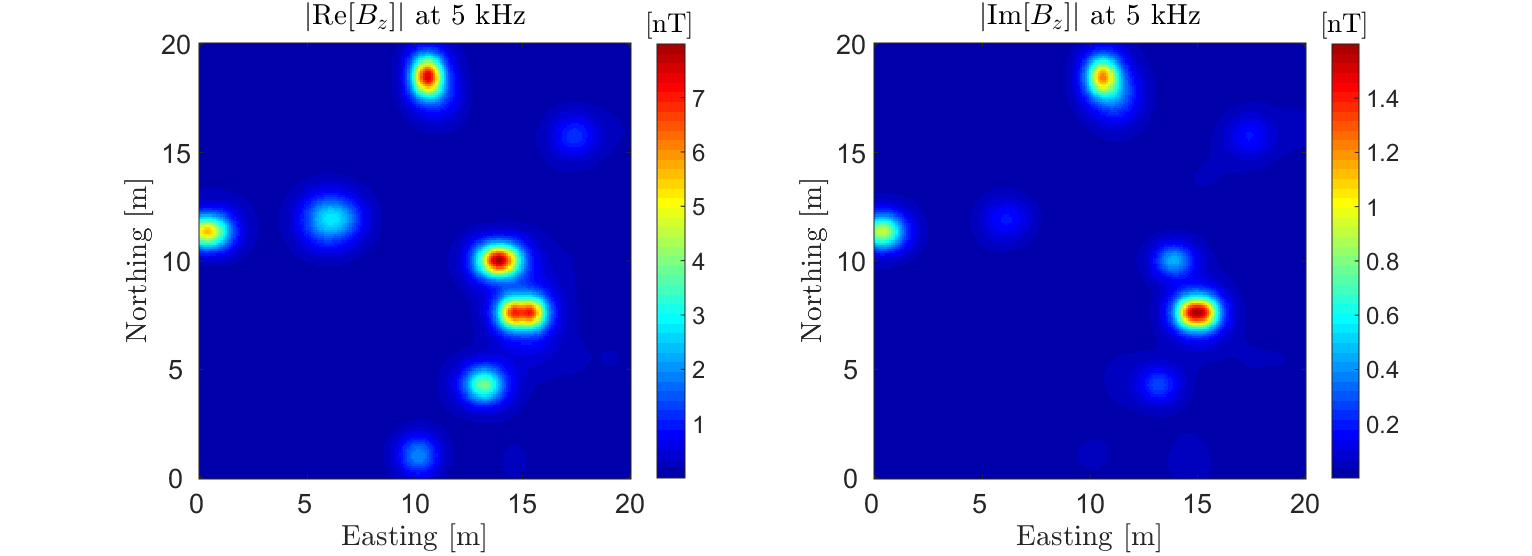
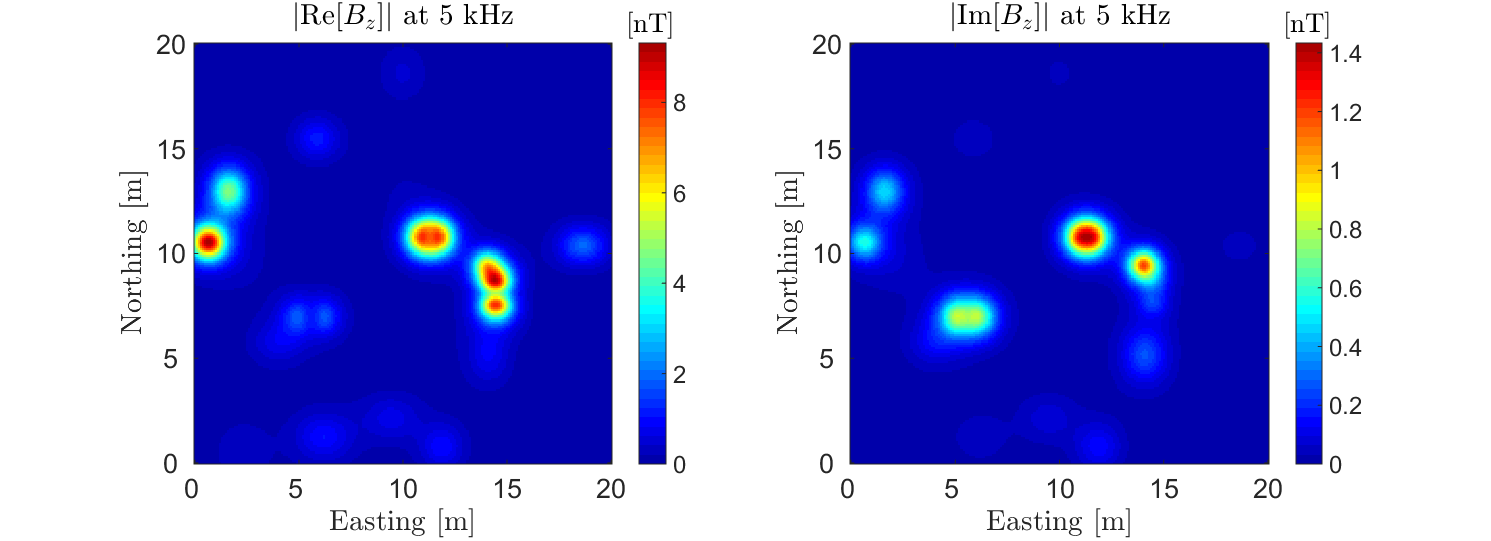
Interpretation edits

diff --git a/content/geophysical_surveys/uxo/interpretation.rst b/content/geophysical_surveys/uxo/interpretation.rst
@@ -7,11 +7,57 @@ Interpretation
     :file: ../../../underconstruction.html
 
 
+In many cases, the number of clutter items far exceeds the number of ordnance items within the survey area. As a result, data processing and interpretation techniques are used to differentiate ordnance items from clutter and produce a prioritized dig list of targets for excavation. A workflow showing the processing steps for UXO classification is shown in :numref:`fig_workflow_uxo`.
+
+Workflow for UXO Classification
+-------------------------------
+
+
+.. figure:: images/workflow.png
+	:align: center
+	:figwidth: 100%
+	:name: fig_workflow_uxo
+
+	Workflow for UXO classification.
+
+**Digital Geophysical Map (DGM):** These are visually represented data collected during the UXO survey.
+
+**Target Picking:** In this step, we identify anomalies down to a pre-defined amplitude threshold for further processing. The threshold is usually set based upon the minimum expected data amplitude for the smallest target of interest (i.e. UXO) at a site.
+
+**Cued Interrogation:** Here, high-quality data are collected over each picked target. Despite adding time and expense, this step frequently provides the level of data quality required to accurately classify each picked target.
+
+**Feature Estimation:** Each anomaly from cued interrogation data is characterized by estimating features. This allows us to discern UXOs from non-hazardous clutter. Features may be directly related to the observed data (e.g. anomaly amplitude at the first time channel), or they may be the parameters of a physical model.
+
+The former approach is appealing in its simplicity but is generally not an effective strategy. For example, an ordnance item at depth will produce a small anomaly amplitude and might be left in the ground when using a dig list based solely upon anomaly amplitude. Most classification strategies therefore use physical modeling to resolve such ambiguities.
+
+Detailed descriptions of the physical modeling used for processing electromagnetic data are given in Bell et al. (2001), Pasion and Oldenburg (2001) and Zhang et al. (2003); see physics (link) for example. In the feature estimation stage, these models are fit to the observed EM data for each target anomaly (:numref:`fig_metal_mapper_uxo`). The model is parameterized by target location (:math:`x,y,z`), orientation (:math:`\theta,\phi`) and polarizabilities (:math:`L_{x'}, L_{y'}, L_{z'}`). The polarizabilities are intrinsic to each target and can therefore be used to make classification decisions.
+
+.. figure:: images/MetalMapper.png
+	:align: center
+	:figwidth: 100%
+	:name: fig_metal_mapper_uxo
+
+	Fitting Metal Mapper data using the dipole model. (a) Observed data (top row) and data predicted by fitting a physical model to the observed data (middle row). Bottom row shows a negligible difference between observed and predicted data, indicating a good fit. (b) Estimated polarizabilities (colored lines) recovered via fitting, overlain on known polarizabilities for 37 mm projectiles. The excellent correspondence between recovered and reference polarizabilities indicates – with high confidence – that the detected target is a 37 mm item.
+
+
+**Quality Control:** Once the data has been fit using a parameterized model, it is important to assess how well the model is able to explain the data. This can be done by examining the difference between the observed data and data predicted using the parameterized model. 
+
+**Classification:** Here, the polarizations recovered for each target are compared against those within a library of known ordnance items. UXO classification is successful when the recovered polarizations match those of a known ordnance item. As expected, the polarizations of clutter objects will not match any of the polarizations contained within the library.
+
+In :numref:`fig_polar_compare_uxo` we compare typical polarizabilities for UXO and non-UXO items. The primary polarizability (:math:`L_1`) aligns with the long axis of the target. UXOs generally have larger amplitudes and slower decaying polarizabilities relative to small clutter. Shape information is encoded in the secondary polarizabilities (:math:`L_2` and :math:`L_3`). Most UXOs have a circular cross-section and will have :math:`L_2 \approx L_3`. In contrast, for irregularly-shaped clutter these parameters are significantly different. These differences in the polarizabilities allow us to distinguish between buried UXOs and clutter.
+
+.. figure:: images/polarizability_compare.png
+	:align: center
+	:figwidth: 100%
+	:name: fig_polar_compare_uxo
+
+	Comparison of representative polarizabilities for UXO and non-UXO items.
+
 
 Geological Noise
 ----------------
 
-Typically, the EM responses from UXOs are significantly stronger than the EM responses from the host medium. In these cases, it is acceptable to neglect the response from the host medium. However, there are certain geological environments in which this assumption is invalid. As an approximation, it is common to neglect coupling and consider the UXO and geological responses as separable, thus:
+Generally the EM responses from UXOs are significantly stronger than the EM responses from the host medium. In these cases, it is acceptable to neglect the response from the host medium. However, there are certain geological environments in which this assumption is invalid. As an approximation, it is common to neglect coupling and consider the UXO and geological responses as separable, thus:
 
 .. math::
 	B_{tot} = B_{s} + B_{geo}
@@ -49,7 +95,7 @@ Given a digital geophysical map (DGM) acquired with a ground-based sensor, a num
 .. figure:: images/workflow.png
 	:align: center
 	:figwidth: 100%
-	:name: fig_workflow_uxo
+	:name: fig_workflow_uxo2
 
 	Processing steps for UXO classification
 
@@ -63,7 +109,7 @@ Detailed descriptions of the physical modeling used for processing electromagnet
 .. figure:: images/MetalMapper.png
 	:align: center
 	:figwidth: 100%
-	:name: fig_metal_mapper_uxo
+	:name: fig_metal_mapper_uxo2
 
 	Fitting MetalMapper data. (a) Observed data (top row), and data predicted by fitting a physical model to the observed data (middle row). Bottom row shows the (negligible) difference between observed and predicted data. Each column shows the X,Y, and Z components of the measured data, with MetalMapper receiver locations indicated by white circles. Black circle is the estimated location of the target.  Numbers at the bottom of each column indicate the range of data values, arbitrary values. Colored images map blue and red to low and high data values, respectively. (b) Estimated polarizabilities (colored lines) recovered via fitting, overlain on known polarizabilities for 37 mm projectiles. The excellent correspondence between recovered and reference polarizabilities indicates – with high confidence – that the detected target is a 37 mm item.
 
@@ -73,7 +119,7 @@ In figure 5 we compare typical polarizabilities for UXO and non-UXO items. The p
 .. figure:: images/polarizability_compare.png
 	:align: center
 	:figwidth: 100%
-	:name: fig_polar_compare_uxo
+	:name: fig_polar_compare_uxo2
 
 	Comparison of representative polarizabilities for UXO and non-UXO items.
 

diff --git a/content/geophysical_surveys/uxo/data.rst b/content/geophysical_surveys/uxo/data.rst
@@ -19,9 +19,9 @@ During a UXO survey, an inductive loop source generates a primary field. The pri
 Frequency Domain Data
 ---------------------
 
-In the frequency domain, FEM responses have both real and imaginary components. These may also be referred to as the in-phase and quadrature components, respectively. It is important to note that EMF :math:`\propto -i B_\perp`. That is, real components of the response result in imaginary voltages and visa-versa. Therefore, it is important to understand how the data are being represented and the significance of the real and imaginary components.
+In the frequency domain, FEM responses have both real and imaginary components; also known as in-phase and quadrature components, respectively. It is important to note that the EMF is proportional to :math:`-i \omega B_s`. That is, real components of the response result in imaginary voltages and visa-versa. Therefore, it is important to understand how the data are being represented and the significance of the real and imaginary components.
 
-Vertical FEM anomalies over a host a conductive (:math:`\sigma > 10^6` S/m) and magnetically permeable (:math:`\mu_r > 1`) objects are shown below. The objects were excited with horizontal transmitter loop using a frequency of 5 kHz. This is meant to demonstrate the type of data one would observe when using a frequency domain coincident loop system.
+Vertical FEM anomalies over a host a conductive (:math:`\sigma > 10^6` S/m) and magnetically permeable (:math:`\mu_r > 1`) objects are shown below. The objects were excited with vertical dipole source (small loop) using a frequency of 5 kHz. This is meant to demonstrate the type of data one would observe when using a frequency domain coincident loop system.
 
 
 .. figure:: images/FEM_data_example.png
@@ -29,20 +29,29 @@ Vertical FEM anomalies over a host a conductive (:math:`\sigma > 10^6` S/m) and 
 	:figwidth: 80%
 	:name: fig_uxo_FEM_data_example
 
-	Vertical FEM anomalies observed using a coincident loop system at f = 5 kHz.
+	Vertical FEM anomalies observed using a coincident loop system at f = 5 kHz. Data shows prominent anomalies in both the in-phase and quadrature components.
 
 
 
 Time Domain Data
 ----------------
 
-When operating in the time domain, we are generally interested in the UXO's transient response; that is, the response to step-off excitation. For some systems (EM-61), the off-time response may only be measured for a few time channels. For newer systems, 10s of time channels are used to accurately characterize the decays of potential targets. Off-time data are typically collected between 100 :math:`\mu s` to 25 :math:`ms` after the transmitter is shut off.
+When operating in the time domain, we are generally interested in the UXO's transient response; that is, the response to step-off excitation. For some systems (EM-61), the off-time response may only be measured for a few time channels. For newer systems, 10s of time channels are used to accurately characterize the decays of potential targets. Off-time data are typically collected between 100 :math:`\mu s` to 25 :math:`ms` after the transmitter is shut off. A representation of the transmitter's current waveform and measured time channels is illustrated below.
+
+.. figure:: images/time_channels.png
+	:align: center
+	:figwidth: 60%
+	:name: fig_uxo_time_channels
+
+	Bi-modal boxcar waveform for TEM systems. Data are measured during the off-time.
 
 
 TEM Anomalies
 *************
 
-Anomalies such as these may be observed when using an EM-61.
+Anomalies associated with the transient response decay over time. The rate of decay (:math:`dBdt`) at early, mid and late-times depends significantly on the dimensions and physical properties of each target.
+
+Vertical TEM anomalies over a host a conductive (:math:`\sigma > 10^6` S/m) and magnetically permeable (:math:`\mu_r > 1`) objects are shown below. The objects were excited with a step-off excitation using a vertical dipole source (small loop). This is meant to demonstrate the type of data one would observe when using a domain coincident loop system (EM-61).
 
 .. figure:: images/TEM_data_example.png
 	:align: center
@@ -57,12 +66,14 @@ TEM Decays
 
 .. figure:: images/TEM_data_decays.png
 	:align: right
-	:figwidth: 50%
+	:figwidth: 40%
 	:name: fig_uxo_TEM_data_decays
 
-	3-component TEM decays observed using MPV.
+	3-component TEM decays observed using MPV instrument.
 
+For instrument arrays containing multiple transmitters and receivers, we frequently plot the decays observed over a particular target. In physics (link), we showed that UXOs display particular decays over early, mid and late times.
 
+On the right, we show a host of decays over a conductive (:math:`\sigma = 10^6` S/m) and magnetically permeable (:math:`\mu_r = 30`) using an MPV instrument. Here, 3-component data were collected within a 2 m :math:`\times` 2 m grid over the target.
 
 
 
